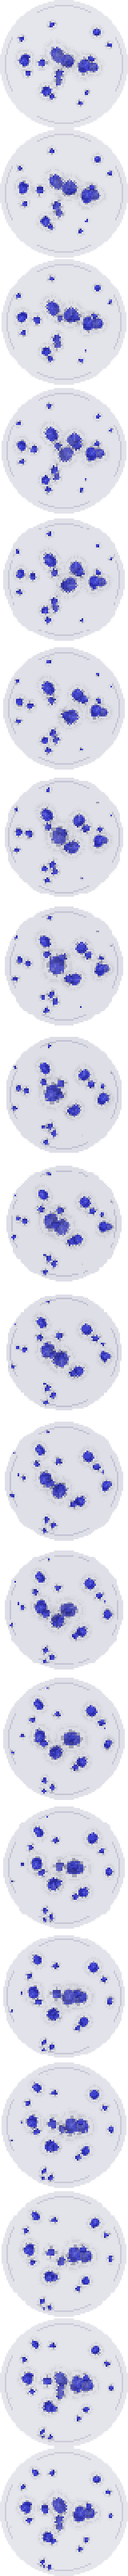
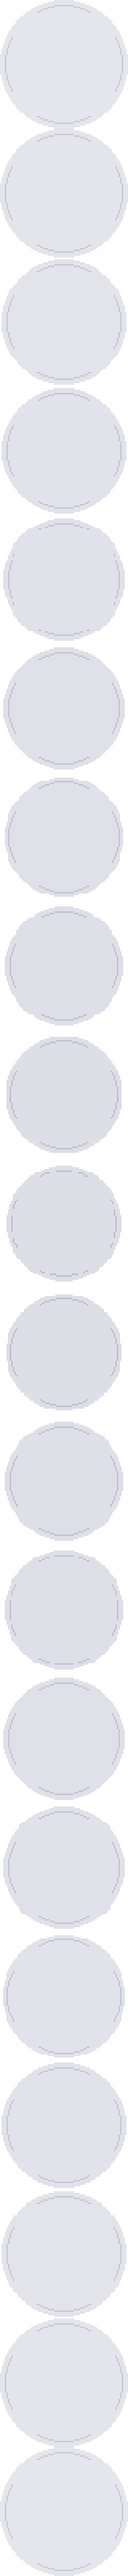
Spore Cloud visual improvements + credits

diff --git a/Content/Projectiles/Ranged/SporeCloud.cs b/Content/Projectiles/Ranged/SporeCloud.cs
@@ -3,6 +3,7 @@ using Terraria;
 using Terraria.DataStructures;
 using Terraria.ModLoader;
 using Microsoft.Xna.Framework;
+using Terraria.ID;
 
 namespace WgMod.Content.Projectiles.Ranged;
 
@@ -51,10 +52,20 @@ public class SporeCloud : ModProjectile
 
         float t = MathF.Sin(_time);
 
+        Projectile.Opacity = t;
         Projectile.scale = t;
-        Projectile.Opacity = t; //* 0.5f;
-        //Projectile.width = (int)float.Lerp(0, 160, t); // Scaling the height and width causes the projectile to spawn above the player
-        //Projectile.height = (int)float.Lerp(0, 160, t); // Figure out a fix later
+
+        /*Projectile.position = Projectile.Center; 
+        Projectile.Size = new Vector2(160f, 160f) * t; // If someone else wants to try this go ahead, I give up
+        Projectile.Center = Projectile.position;*/
+
+        if (Main.rand.NextBool(2))
+        {
+            float angle = (float)(Main.rand.NextDouble() * Math.Tau);
+            Vector2 dir = new(MathF.Cos(angle), MathF.Sin(angle));
+
+            Dust.NewDustDirect(new Vector2(Projectile.Center.X - 80f * t, Projectile.Center.Y - 80f * t), (int)(160f * t), (int)(160f * t), DustID.GlowingMushroom, dir.X * t, dir.Y * t, (int)(100f * t), default, t);
+        }
 
         if (_time > MathF.PI)
             Projectile.Kill();

diff --git a/Content/Items/Accessories/Ranged/StuffedTruffle.cs b/Content/Items/Accessories/Ranged/StuffedTruffle.cs
@@ -8,6 +8,10 @@ using WgMod.Common.Players;
 
 namespace WgMod.Content.Items.Accessories.Ranged;
 
+
+[Credit(ProjectRole.Programmer, Contributor.maimaichubs)]
+[Credit(ProjectRole.Artist, Contributor.divine_lumine)]
+[Credit(ProjectRole.Idea, Contributor.divine_lumine)]
 class StuffedTruffle : ModItem
 {
     public override void SetDefaults()
